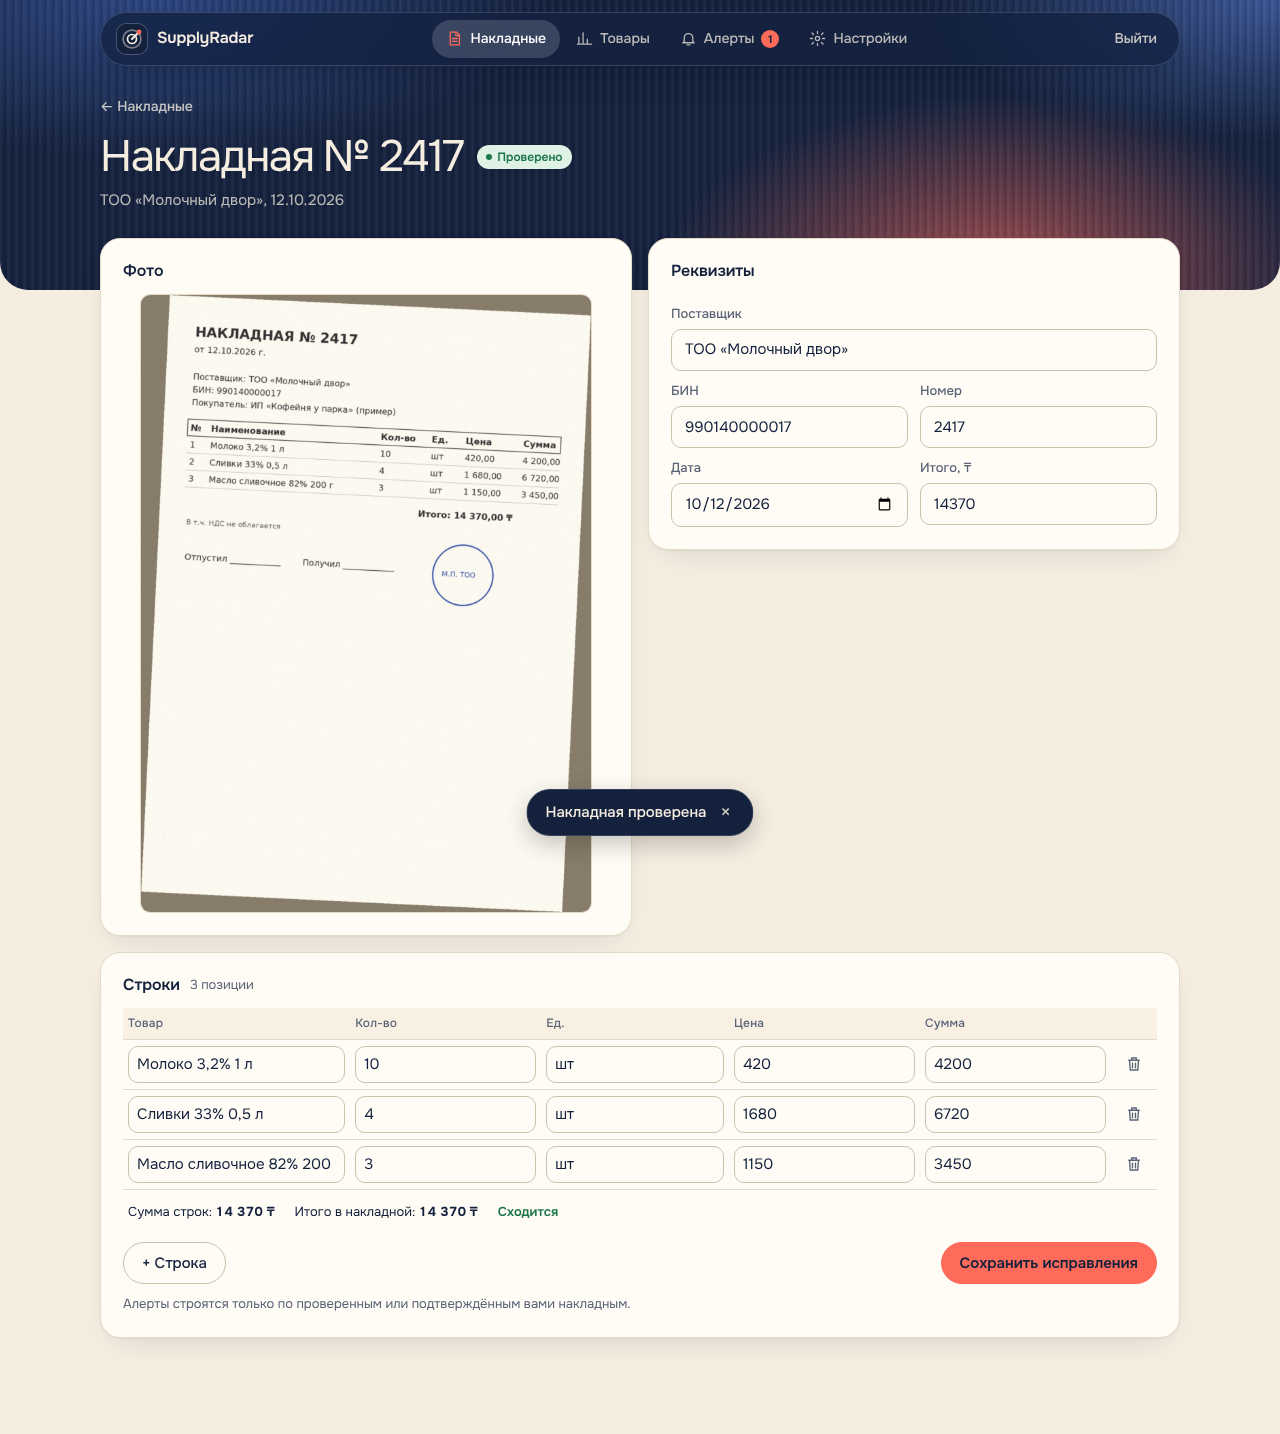
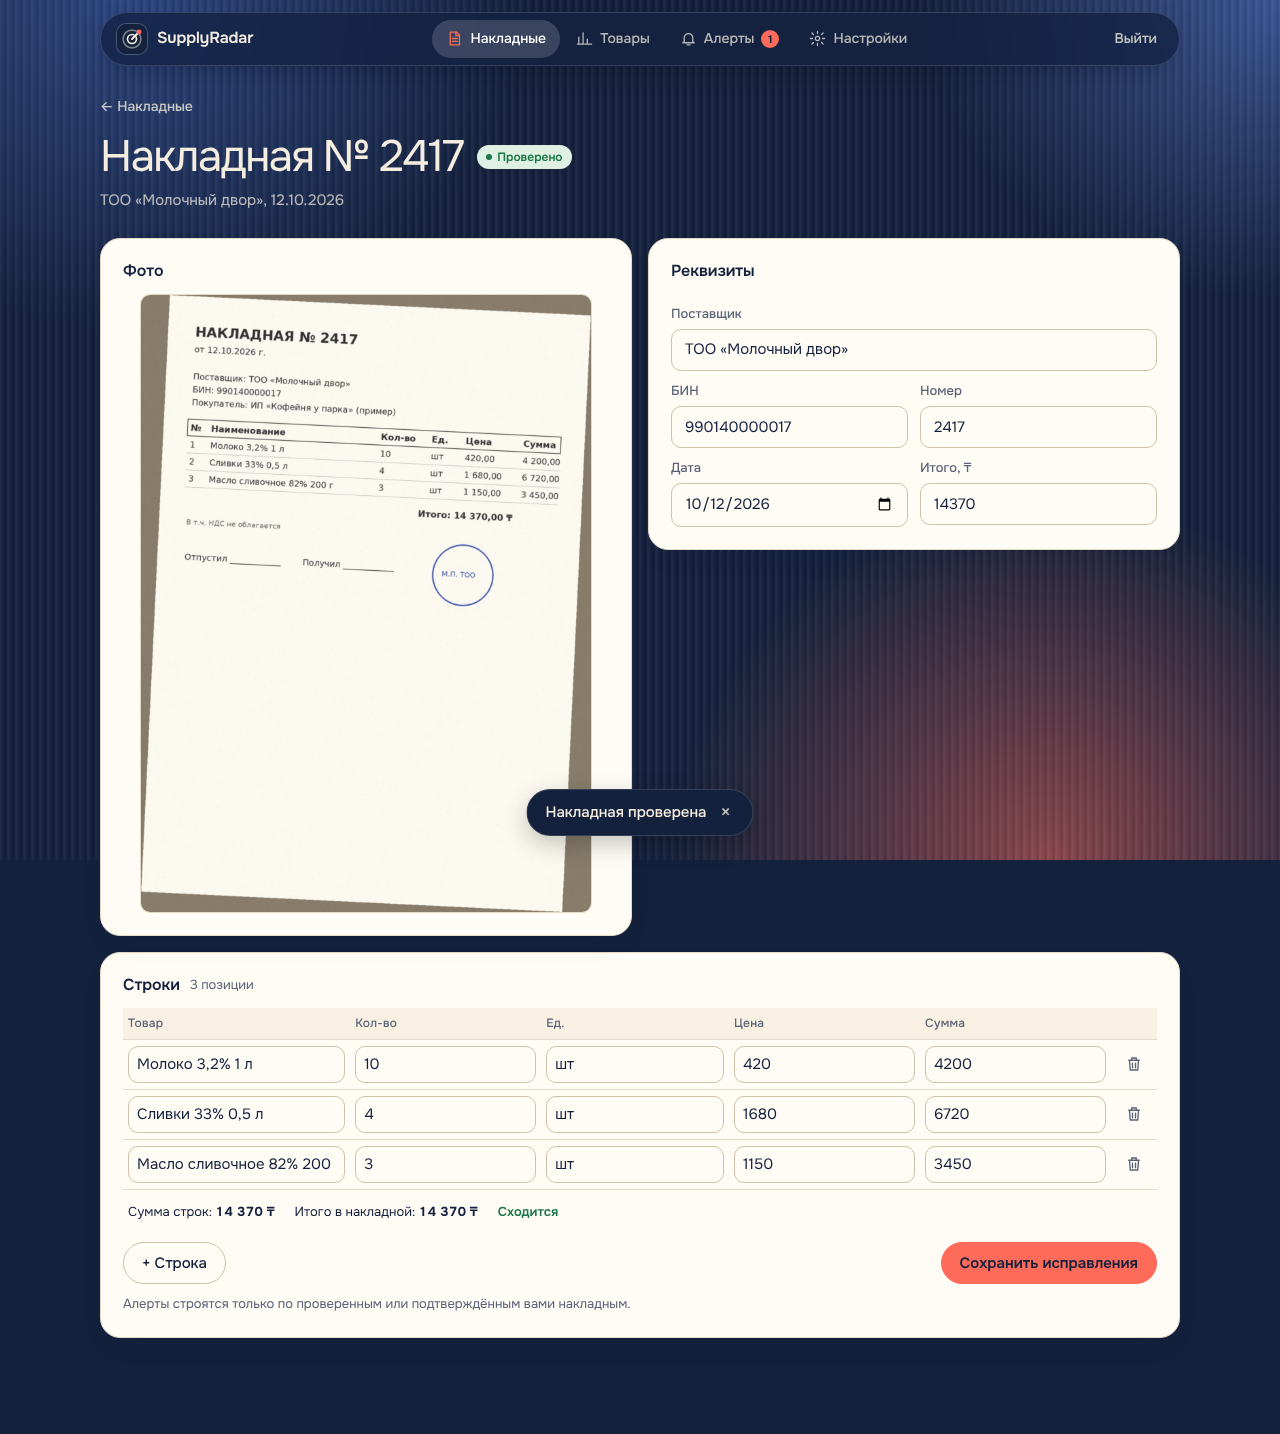
Frontend: navy backdrop fills the whole page, plain blue overpay card
Claude-Session: https://claude.ai/code/session_01KwGjVBDGxEL3AD6Kkxbr3G

diff --git a/src/frontend/styles.css b/src/frontend/styles.css
@@ -43,7 +43,6 @@
   --shadow: 0 1px 2px rgba(20, 33, 61, .04), 0 12px 32px -16px rgba(20, 33, 61, .18);
   --focus: 0 0 0 3px rgba(255, 107, 91, .45);
   --tabbar-h: 0px;
-  --band-h: 290px;
   /* Ribbed glass over a navy field with one coral light: the look of every dark surface. */
   --ribs: repeating-linear-gradient(90deg, rgba(255, 255, 255, .06) 0, rgba(255, 255, 255, 0) 3px, rgba(0, 0, 0, .1) 6px, rgba(255, 255, 255, .06) 8px);
   color-scheme: light;
@@ -91,15 +90,15 @@ body {
   text-rendering: optimizeLegibility;
 }
 
-/* Signed-in pages open on a navy band; the page title sits on it and the cards overlap its edge. */
+/* Signed-in pages sit on one navy field that fills the whole viewport and stays put while content scrolls. */
+body.app { background: var(--navy); }
 body.app::before {
-  content: ""; position: absolute; z-index: -1; top: 0; left: 0; right: 0; height: var(--band-h);
-  border-radius: 0 0 28px 28px;
+  content: ""; position: fixed; z-index: -1; inset: 0;
   background:
     var(--ribs),
-    radial-gradient(38% 90% at 78% 96%, rgba(255, 107, 91, .62), transparent 70%),
-    radial-gradient(45% 80% at 12% 0%, #2c4580, transparent 70%),
-    radial-gradient(40% 70% at 100% 0%, #3a5594, transparent 70%),
+    radial-gradient(42% 60% at 82% 100%, rgba(255, 107, 91, .5), transparent 70%),
+    radial-gradient(45% 55% at 10% 0%, #2c4580, transparent 70%),
+    radial-gradient(40% 50% at 100% 0%, #3a5594, transparent 70%),
     var(--navy);
 }
 body { isolation: isolate; }
@@ -162,7 +161,7 @@ body.app .container > :nth-child(n+4) { animation-delay: .12s; }
 .topbar button.link:hover { color: #fff; background: rgba(255, 255, 255, .08); }
 
 @media (max-width: 720px) {
-  :root { --tabbar-h: 62px; --band-h: 210px; }
+  :root { --tabbar-h: 62px; }
   /* backdrop-filter would make the topbar the containing block of the fixed tab bar. */
   .topbar {
     position: static; margin: 0; padding: 0 8px 0 16px; border: 0; border-radius: 0; box-shadow: none;
@@ -445,14 +444,9 @@ table.lines tfoot td { border-top: 1px solid var(--border); border-bottom: 0; pa
 /* ------------------------------------------------------------ alerts */
 
 .overpay {
-  display: flex; align-items: flex-end; gap: 24px; flex-wrap: wrap; padding: 28px; border: 0;
+  display: flex; align-items: flex-end; gap: 24px; flex-wrap: wrap; padding: 28px;
   --muted: rgba(244, 237, 224, .76);
-  color: var(--cream);
-  background:
-    var(--ribs),
-    radial-gradient(50% 120% at 92% 100%, rgba(255, 107, 91, .55), transparent 70%),
-    radial-gradient(60% 100% at 0% 0%, #2c4580, transparent 70%),
-    var(--navy);
+  color: var(--cream); background: #1a2a4c; border-color: rgba(255, 255, 255, .12);
 }
 .overpay .stat { font-size: 64px; line-height: 1; font-weight: 300; letter-spacing: -.04em; color: var(--coral); margin-top: 6px; }
 .overpay .stat.zero { color: #8fe3b4; }
@@ -610,7 +604,7 @@ body.landing .container { max-width: none; padding: 0; }
 .skeleton { display: grid; gap: 12px; }
 .sk { height: 14px; border-radius: 6px; background: var(--skeleton); position: relative; overflow: hidden; }
 .sk.h1 { height: 40px; width: 260px; margin: 10px 0 18px; background: rgba(255, 255, 255, .14); }
-.sk.block { height: 120px; border-radius: var(--radius-lg); }
+.sk.block { height: 120px; border-radius: var(--radius-lg); background: rgba(255, 255, 255, .1); }
 .sk::after { content: ""; position: absolute; inset: 0; transform: translateX(-100%); background: linear-gradient(90deg, transparent, rgba(255, 255, 255, .45), transparent); animation: shimmer 1.3s infinite; }
 @media (prefers-color-scheme: dark) { .sk::after { background: linear-gradient(90deg, transparent, rgba(255, 255, 255, .06), transparent); } }
 @keyframes shimmer { to { transform: translateX(100%); } }
